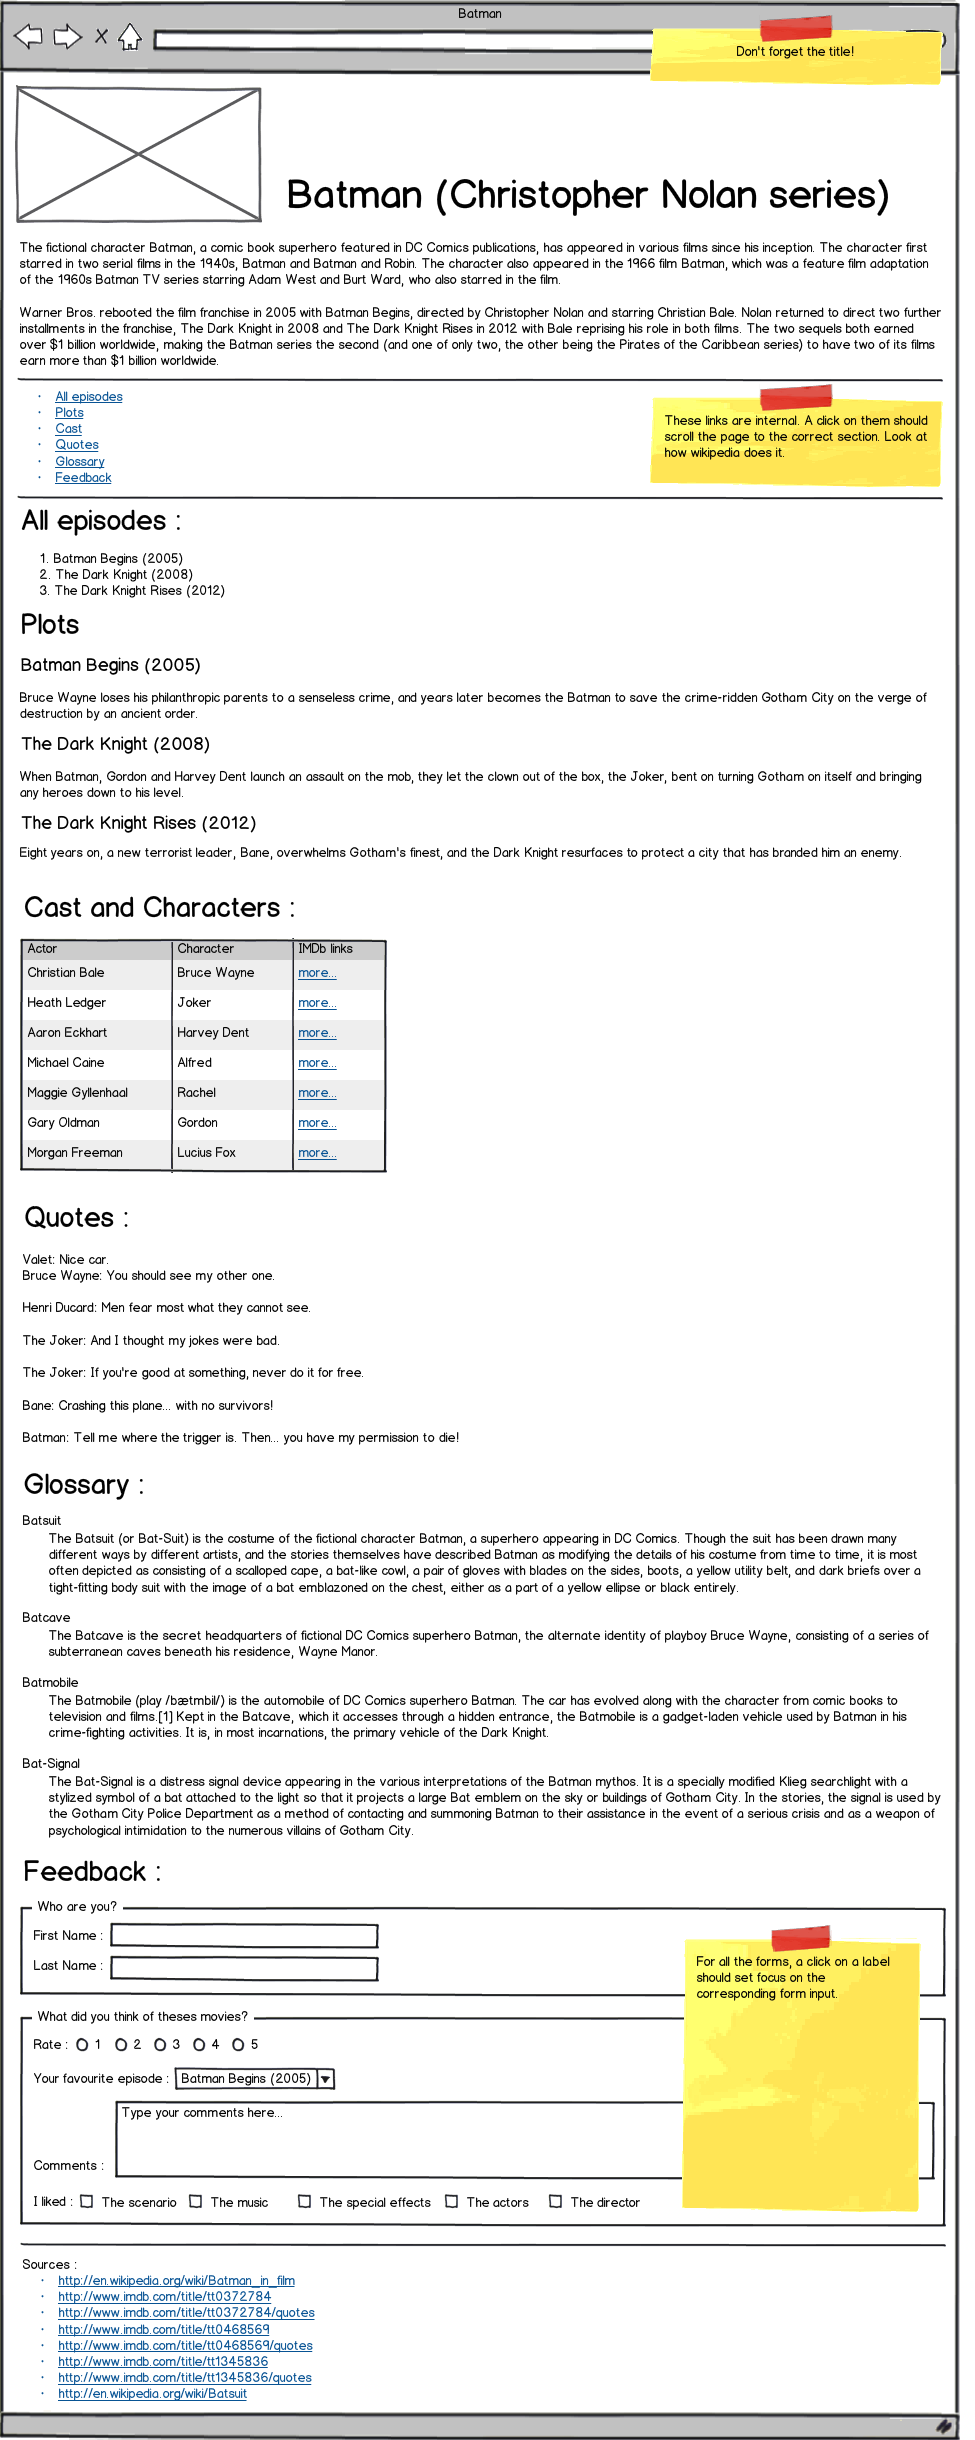
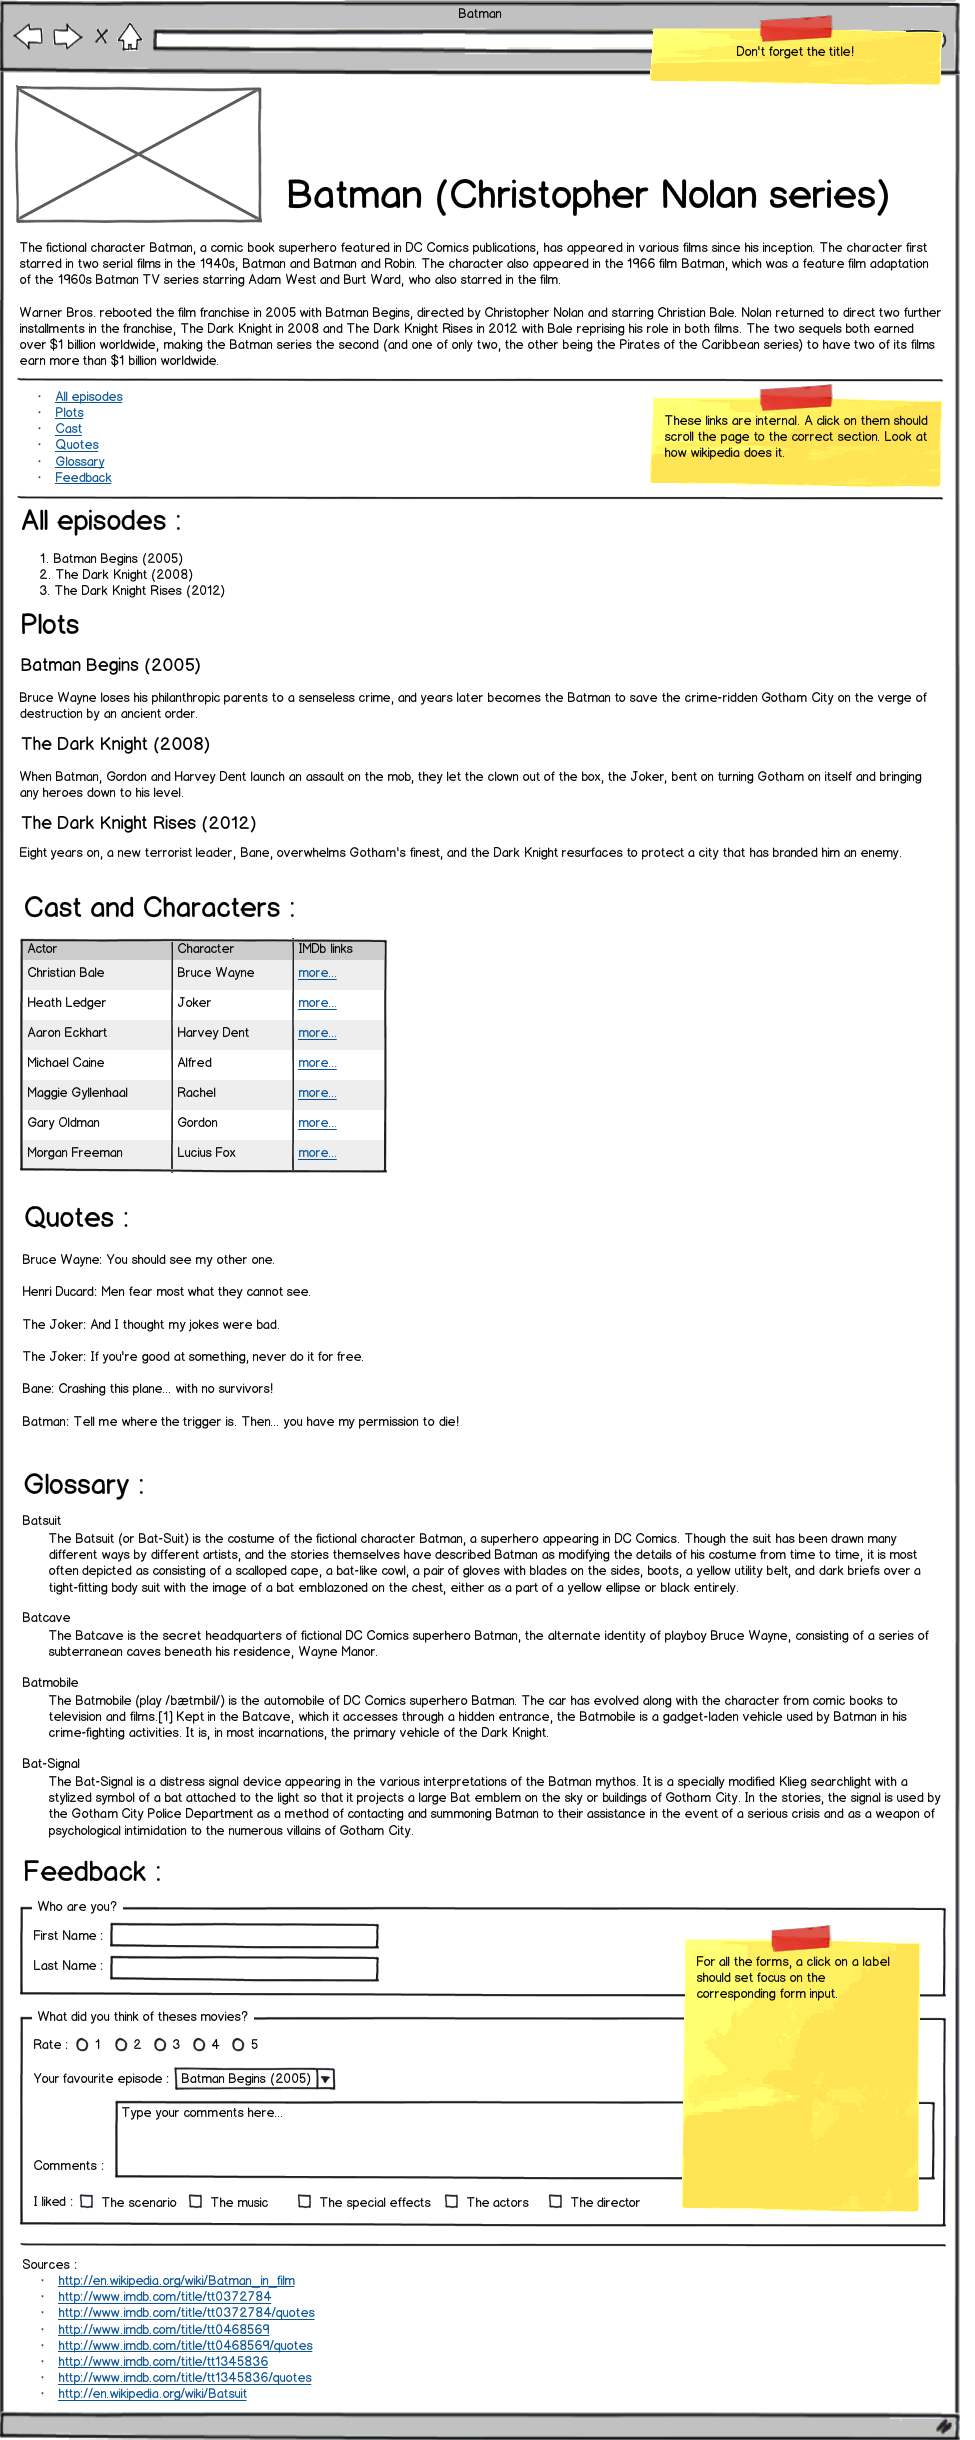
Adding more deliveries for ex2, adding infos on the no br policy on ex1

Changed region(s): [[0.0, 0.4984, 0.4615, 0.5918]]

diff --git a/labs-md/be-zen.md b/labs-md/be-zen.md
@@ -47,7 +47,7 @@ We need a summary webpage for a movie saga. It'll describe the different episode
 ### Rules
 
 * You **MUST** absolutely use these HTML elements : `article`, `section`, `header`, `footer`, `nav`, `hr`, `h1`, `h2`, `h3`, `ul`, `ol`, `thead`, `tbody`, `th`, `dl`, `dt`, `dd`, `form`, `label`, `textarea`
-* You **CANNOT** use these HTML elements : `div`, `span`, `br`
+* You **CANNOT** use these HTML elements : `div`, `span`, `br`. Since `br` would be a good fit to insert two lines (or more) quotes, just put one line movie quotes on your document.
 * You **MUST** follow all the instructions (post-it) of the wireframe.
 * You **MUST** validate your HTML and correct the possible errors.
 * You **MUST** cite your sources of information at the bottom.
@@ -85,6 +85,8 @@ We have a broken email client. You'll need to write some CSS to "repair" the pos
 <!-- .deliveries -->
 * Hmail.css
 * Hmail.html
+* Hmail-base.css
+* Hmail-logo.png
 
 ## Be zen!
 
@@ -111,7 +113,7 @@ You're going to try the [CSS Zen Garden](http://www.csszengarden.com) challenge.
 
 ### Rules
 
-* You **MUST** absolutely use these properties : `float`, `clear`, `position`, `margin-*`, `padding-*`, `border-*`, `background-*`, `font-*`, `color`
+* You **MUST** absolutely use these properties : `float`, `clear`, `position`, `margin-*`, `padding-*`, `border-*`, `background-*`, `font-*`, `color`.
 * You **MUST** validate your CSS and correct the possible errors.
 * You **CANNOT** modify the HTML.
 
